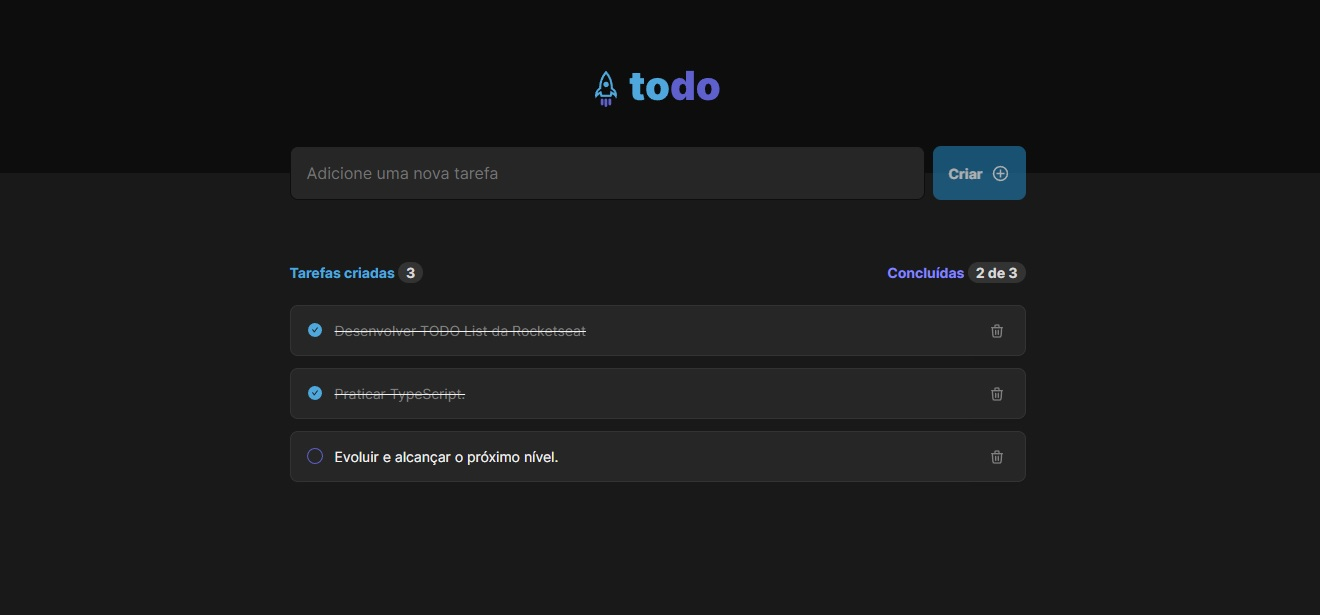
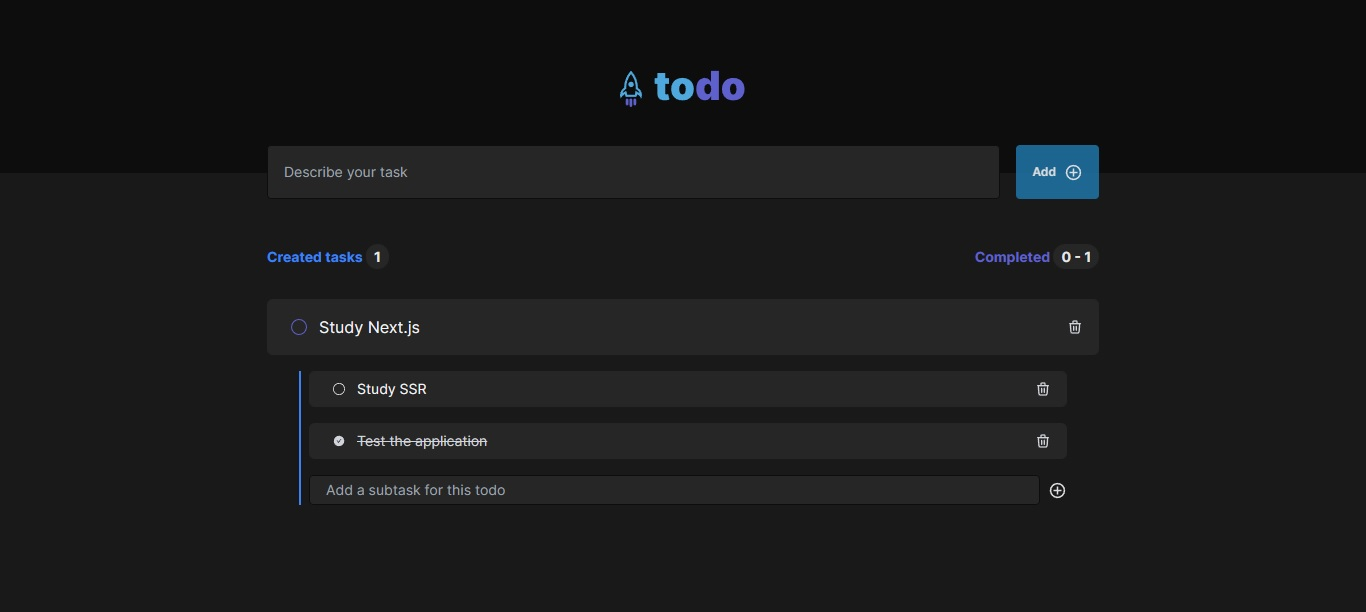
feat: select and remove subtasks with tests

diff --git a/src/tests/Todo.spec.tsx b/src/tests/Todo.spec.tsx
@@ -1,10 +1,5 @@
 import { describe, expect, it } from 'vitest'
-import {
-  fireEvent,
-  getAllByText,
-  render,
-  waitFor,
-} from '@testing-library/react'
+import { fireEvent, render, waitFor } from '@testing-library/react'
 import { TodoProvider } from '../context/Todo'
 import { Form } from '@/components/Form'
 import { TodoComponent } from '@/components/TodoComponent'
@@ -127,5 +122,100 @@ describe('Todo Form', () => {
 
     expect(subTask).toBeInTheDocument()
     expect(getAllByText('New Subtask Added')[0]).toBeInTheDocument()
+  })
+
+  it('should select and unselect a subtask', async () => {
+    const { getByText, getByTestId, getAllByTestId, getAllByText } = render(
+      <TodoProvider>
+        <Form />
+        <TodoComponent />
+      </TodoProvider>,
+    )
+
+    const input = getByTestId('input-todo')
+
+    await waitFor(() =>
+      fireEvent.change(input, { target: { value: 'Hello World' } }),
+    )
+
+    await waitFor(() => fireEvent.click(getByText('Add')))
+
+    const todo = getAllByTestId('todo-item')[0]
+
+    expect(todo).toBeInTheDocument()
+
+    const subTaskInput = getAllByTestId('input-subtask')[0]
+
+    await waitFor(() =>
+      fireEvent.change(subTaskInput, {
+        target: { value: 'New Subtask Added' },
+      }),
+    )
+
+    await waitFor(() => fireEvent.click(getAllByTestId('add-subtask')[0]))
+
+    const subTask = getAllByTestId('subtask-item')[0]
+
+    expect(subTask).toBeInTheDocument()
+    expect(getAllByText('New Subtask Added')[0]).toBeInTheDocument()
+
+    const subtaskButton = getAllByTestId('subtask-button')[0]
+
+    await waitFor(() => fireEvent.click(subtaskButton))
+
+    expect(getAllByTestId('selected-subtask-true')[0]).toBeInTheDocument()
+
+    await waitFor(() => fireEvent.click(subtaskButton))
+
+    expect(getAllByTestId('selected-subtask-false')[0]).toBeInTheDocument()
+  })
+
+  it('should remove a subtask', async () => {
+    const {
+      getByText,
+      getByTestId,
+      getAllByTestId,
+      getAllByText,
+      queryByText,
+    } = render(
+      <TodoProvider>
+        <Form />
+        <TodoComponent />
+      </TodoProvider>,
+    )
+
+    const input = getByTestId('input-todo')
+
+    await waitFor(() =>
+      fireEvent.change(input, { target: { value: 'Hello World' } }),
+    )
+
+    await waitFor(() => fireEvent.click(getByText('Add')))
+
+    const todo = getAllByTestId('todo-item')[0]
+
+    expect(todo).toBeInTheDocument()
+
+    const subTaskInput = getAllByTestId('input-subtask')[0]
+
+    await waitFor(() =>
+      fireEvent.change(subTaskInput, {
+        target: { value: 'New Subtask Added' },
+      }),
+    )
+
+    await waitFor(() => fireEvent.click(getAllByTestId('add-subtask')[0]))
+
+    const subTask = getAllByTestId('subtask-item')[0]
+
+    expect(subTask).toBeInTheDocument()
+    expect(getAllByText('New Subtask Added')[0]).toBeInTheDocument()
+
+    const deleteSubtaskButton = getAllByTestId('remove-subtask')[0]
+
+    await waitFor(() => fireEvent.click(deleteSubtaskButton))
+
+    const subTaskText = queryByText('New Subtask Added')
+    expect(subTaskText).toBeNull()
   })
 })

diff --git a/src/reducers/reducer.ts b/src/reducers/reducer.ts
@@ -1,8 +1,8 @@
 import { Task } from '@/context/Todo'
-import { ActionTypes } from './actions'
+import { Action, ActionTypes } from './actions'
 import { produce } from 'immer'
 
-export function todosReducer(state: Task[], action: any) {
+export function todosReducer(state: Task[], action: Action) {
   switch (action.type) {
     case ActionTypes.ADD_TODO:
       return produce(state, (draft) => {
@@ -40,6 +40,26 @@ export function todosReducer(state: Task[], action: any) {
         }
       })
 
+    case ActionTypes.SELECT_SUBTASK:
+      return produce(state, (draft) => {
+        const indexDraft = draft.findIndex((todo) => {
+          return todo.description === action.payload.todo.description
+        })
+
+        if (indexDraft > -1) {
+          const indexSubtask = draft[indexDraft].subtasks.findIndex(
+            (subtask) => {
+              return subtask.description === action.payload.subtask.description
+            },
+          )
+
+          if (indexSubtask > -1) {
+            draft[indexDraft].subtasks[indexSubtask].isCompleted =
+              !draft[indexDraft].subtasks[indexSubtask].isCompleted
+          }
+        }
+      })
+
     case ActionTypes.ADD_SUBTASK_TO_TODO:
       return produce(state, (draft) => {
         const indexDraft = draft.findIndex((todo) => {
@@ -59,6 +79,25 @@ export function todosReducer(state: Task[], action: any) {
           }
 
           draft[indexDraft].subtasks.push(action.payload.subtask)
+        }
+      })
+
+    case ActionTypes.DELETE_SUBTASK:
+      return produce(state, (draft) => {
+        const indexDraft = draft.findIndex((todo) => {
+          return todo.description === action.payload.todo.description
+        })
+
+        if (indexDraft > -1) {
+          const indexSubtask = draft[indexDraft].subtasks.findIndex(
+            (subtask) => {
+              return subtask.description === action.payload.subtask.description
+            },
+          )
+
+          if (indexSubtask > -1) {
+            draft[indexDraft].subtasks.splice(indexSubtask, 1)
+          }
         }
       })
 

diff --git a/src/context/Todo.tsx b/src/context/Todo.tsx
@@ -3,7 +3,9 @@
 import {
   addSubtaskForTodoAction,
   addTodoAction,
+  deleteSubtaskAction,
   deleteTodoAction,
+  selectSubtaskAction,
   selectTodoAction,
 } from '@/reducers/actions'
 import { todosReducer } from '@/reducers/reducer'
@@ -29,6 +31,8 @@ interface TodosContextTypes {
   handleAddTodo: (task: Task) => void
   handleRemoveTodo: (task: Task) => void
   handleSelectTodo: (task: Task) => void
+  handleSelectSubtask: (task: Task, subtask: Subtask) => void
+  handleRemoveSubtask: (task: Task, subtask: Subtask) => void
   handleAddSubtaskForTodo: (task: Task, subtask: Subtask) => void
 }
 
@@ -49,6 +53,14 @@ const TodoProvider = ({ children }: ContextProps) => {
     dispatch(selectTodoAction(task))
   }
 
+  function handleSelectSubtask(task: Task, subtask: Subtask) {
+    dispatch(selectSubtaskAction(task, subtask))
+  }
+
+  function handleRemoveSubtask(task: Task, subtask: Subtask) {
+    dispatch(deleteSubtaskAction(task, subtask))
+  }
+
   function handleAddSubtaskForTodo(task: Task, subtask: Subtask) {
     dispatch(addSubtaskForTodoAction(task, subtask))
   }
@@ -60,6 +72,8 @@ const TodoProvider = ({ children }: ContextProps) => {
         handleAddTodo,
         handleRemoveTodo,
         handleSelectTodo,
+        handleSelectSubtask,
+        handleRemoveSubtask,
         handleAddSubtaskForTodo,
       }}
     >
@@ -74,6 +88,8 @@ const useTodosContext = () => {
     handleAddTodo,
     handleRemoveTodo,
     handleSelectTodo,
+    handleSelectSubtask,
+    handleRemoveSubtask,
     handleAddSubtaskForTodo,
   } = useContext(Todos)
   return {
@@ -81,6 +97,8 @@ const useTodosContext = () => {
     handleAddTodo,
     handleRemoveTodo,
     handleSelectTodo,
+    handleSelectSubtask,
+    handleRemoveSubtask,
     handleAddSubtaskForTodo,
   }
 }

diff --git a/src/components/SubTask.tsx b/src/components/SubTask.tsx
@@ -1,23 +1,23 @@
-import { useState } from 'react'
 import { BsCircle } from 'react-icons/bs'
 import { AiFillCheckCircle } from 'react-icons/ai'
 import { HiOutlineTrash } from 'react-icons/hi'
 import { Subtask, Task, useTodosContext } from '@/context/Todo'
 
 interface ToDoProps {
+  todo: Task
   subtask: Subtask
 }
 
-export function SubTask({ subtask }: ToDoProps) {
-  const { handleRemoveTodo, handleSelectTodo } = useTodosContext()
+export function SubTask({ todo, subtask }: ToDoProps) {
+  const { handleSelectSubtask, handleRemoveSubtask } = useTodosContext()
 
-  // const handleOnClickDelete = () => {
-  //   handleRemoveTodo(todo)
-  // }
+  const handleOnClickDelete = () => {
+    handleRemoveSubtask(todo, subtask)
+  }
 
-  // const handleSelected = () => {
-  //   handleSelectTodo(todo)
-  // }
+  const handleSelected = () => {
+    handleSelectSubtask(todo, subtask)
+  }
 
   return (
     <>
@@ -32,7 +32,7 @@ export function SubTask({ subtask }: ToDoProps) {
           } py-2 px-6 border-none rounded-l-md ${
             subtask.isCompleted ? 'border-r-0' : 'border-r border-dark-500'
           }`}
-          // onClick={handleSelected}
+          onClick={handleSelected}
         >
           <div
             data-testid={`selected-subtask-${subtask.isCompleted}`}
@@ -58,7 +58,7 @@ export function SubTask({ subtask }: ToDoProps) {
             p-1 transition-colors duration-200 hover:bg-dark-900
             rounded-r-md px-4 h-full bg-dark-400
           "
-            // onClick={handleOnClickDelete}
+            onClick={handleOnClickDelete}
           >
             <HiOutlineTrash className="text-gray-300" />
           </button>

diff --git a/src/reducers/actions.ts b/src/reducers/actions.ts
@@ -6,7 +6,14 @@ export enum ActionTypes {
   REMOVE_SUBTASK_TO_TODO = 'REMOVE_SUBTASK_TO_TODO',
   DELETE_TODO = 'DELETE_TODO',
   SELECT_TODO = 'SELECT_TODO',
+  SELECT_SUBTASK = 'SELECT_SUBTASK',
+  DELETE_SUBTASK = 'DELETE_SUBTASK',
   CLEAR_TODOS = 'CLEAR_TODOS',
+}
+
+export interface Action {
+  type: keyof typeof ActionTypes
+  payload: any
 }
 
 export function addTodoAction(todo: Task) {
@@ -51,6 +58,26 @@ export function selectTodoAction(todo: Task) {
     type: ActionTypes.SELECT_TODO,
     payload: {
       todo,
+    },
+  }
+}
+
+export function selectSubtaskAction(todo: Task, subtask: Subtask) {
+  return {
+    type: ActionTypes.SELECT_SUBTASK,
+    payload: {
+      todo,
+      subtask,
+    },
+  }
+}
+
+export function deleteSubtaskAction(todo: Task, subtask: Subtask) {
+  return {
+    type: ActionTypes.DELETE_SUBTASK,
+    payload: {
+      todo,
+      subtask,
     },
   }
 }

diff --git a/src/components/Todo.tsx b/src/components/Todo.tsx
@@ -88,7 +88,11 @@ export function ToDo({ todo }: ToDoProps) {
         {!!todo.subtasks.length && (
           <div className="w-full flex flex-col justify-center items-center rounded-md">
             {todo.subtasks.map((subtask) => (
-              <SubTask key={subtask.description} subtask={subtask} />
+              <SubTask
+                key={subtask.description}
+                todo={todo}
+                subtask={subtask}
+              />
             ))}
           </div>
         )}

diff --git a/src/app/page.tsx b/src/app/page.tsx
@@ -3,7 +3,7 @@ import { Header } from '@/components/Header'
 
 export default function Home() {
   return (
-    <main className="bg-dark-500 min-h-screen">
+    <main className="min-h-screen">
       <Header />
       <Form />
     </main>

diff --git a/src/app/globals.css b/src/app/globals.css
@@ -7,3 +7,7 @@
   padding: 0;
   box-sizing: border-box;
 }
+
+body {
+  background: rgb(25 25 25);
+}
